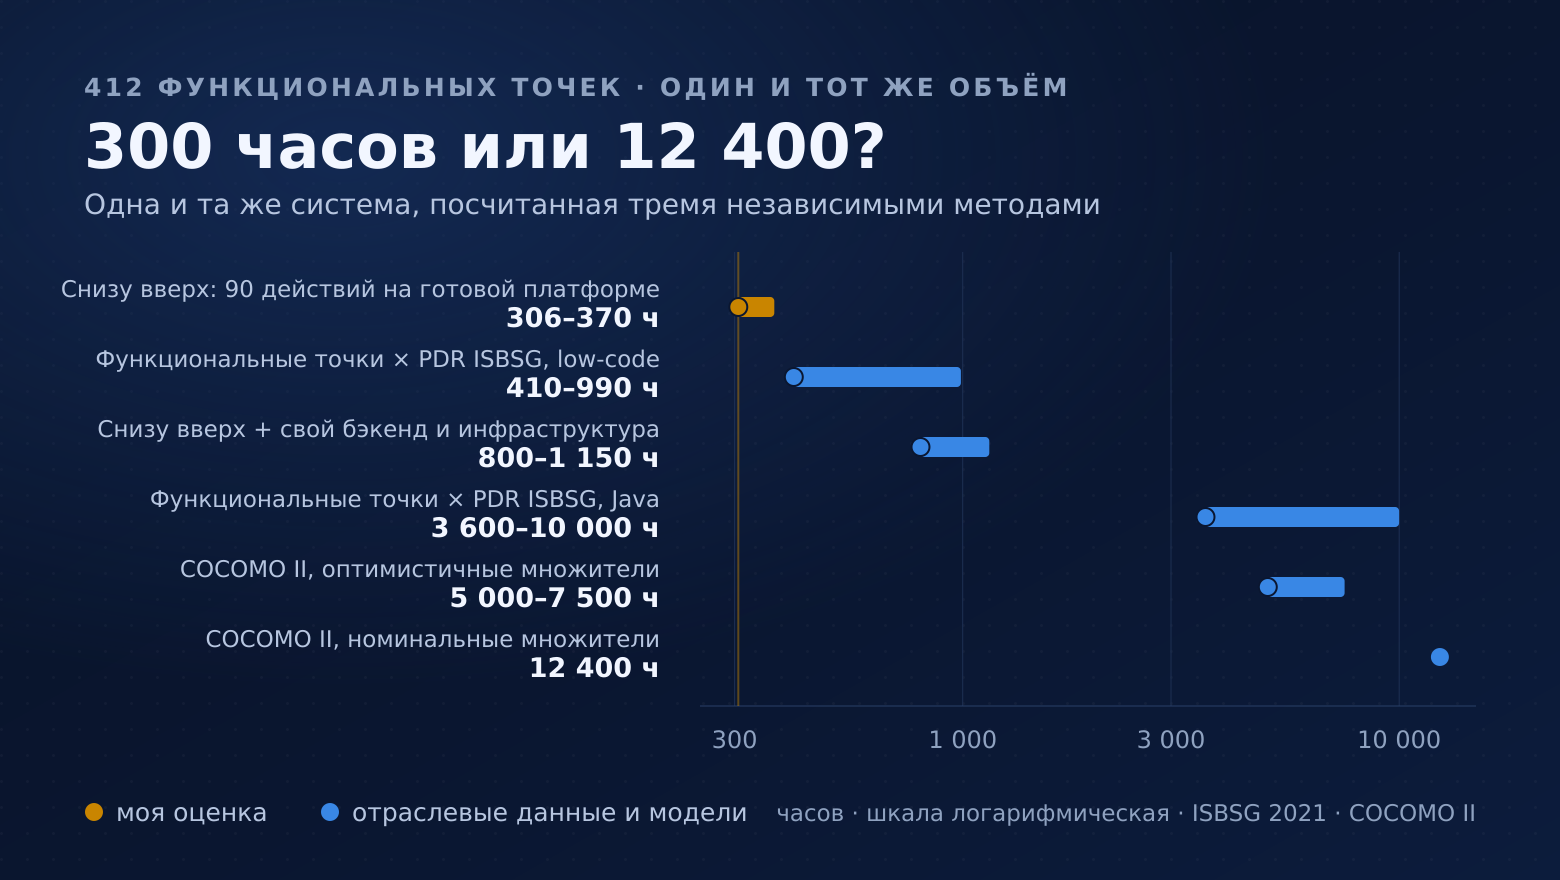
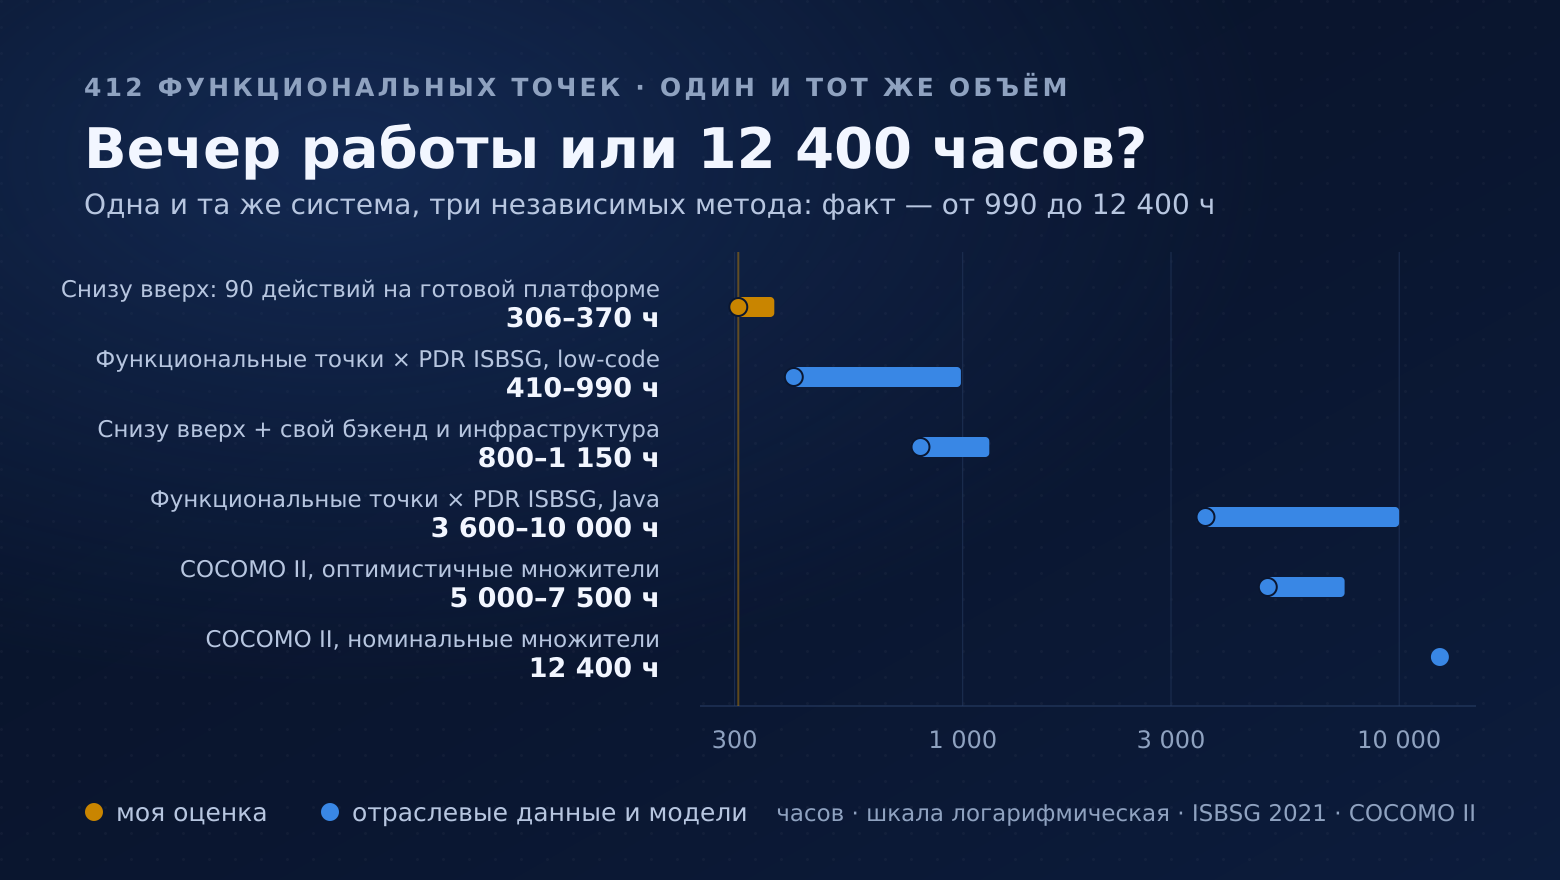
Заголовок статьи: «ЛЛМ сделает за вечер!» + синхронный заголовок на КДПВ
H1 черновика: «Оценка 300 часов? ЛЛМ сделает за вечер!» Считаем тремя
методами, факт: от 990 до 12 400.

КДПВ подхватывает ту же рамку: «Вечер работы или 12 400 часов?» вместо
«300 часов или 12 400?», подзаголовок — «три независимых метода: факт —
от 990 до 12 400 ч». Данные на шкале не менялись.

Changed region(s): [[0.0308, 0.1227, 0.7692, 0.2455]]

diff --git a/content/habr-effort-estimate/articles/skolko-chasov-stoit-promyshlennoe-prilozhenie.md b/content/habr-effort-estimate/articles/skolko-chasov-stoit-promyshlennoe-prilozhenie.md
@@ -24,7 +24,7 @@ difficulty: среднее
 readingTime: 14–16 минут
 ---
 
-# Оценил проект в 300 часов, заказчик сказал «дорого». Пошёл проверять, оказалось — дёшево
+# «Оценка 300 часов? ЛЛМ сделает за вечер!» Считаем тремя методами, факт: от 990 до 12 400
 
 ![Один и тот же объём — 412 функциональных точек — на логарифмической шкале часов: от 306 по оценке снизу вверх до 12 400 по номинальному COCOMO II](../assets/kdpv-tri-metoda.png)
 
